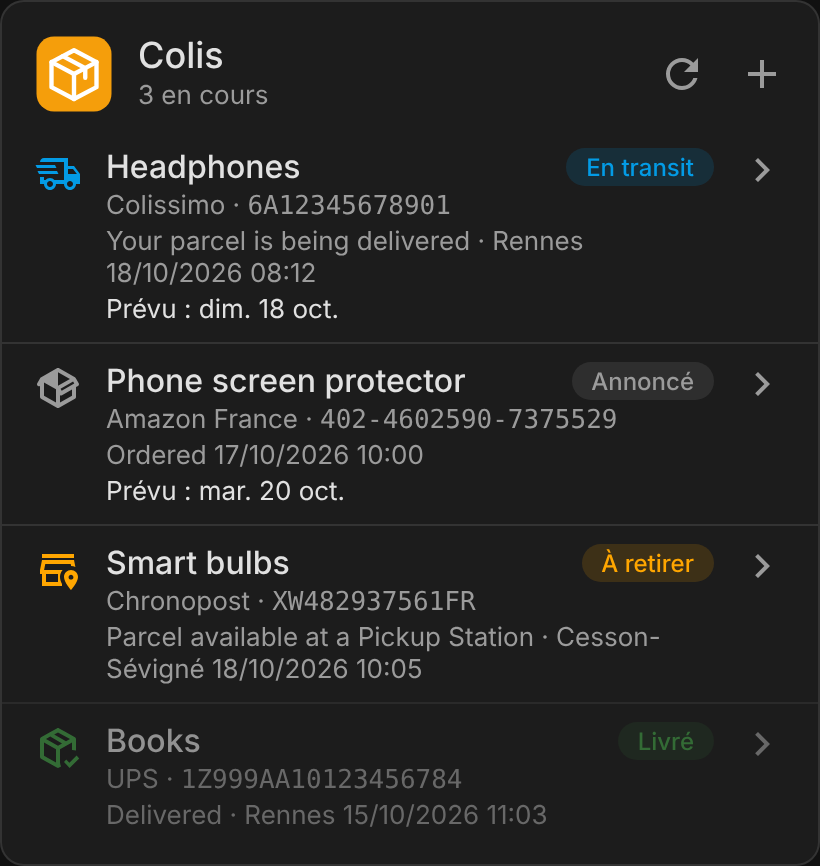
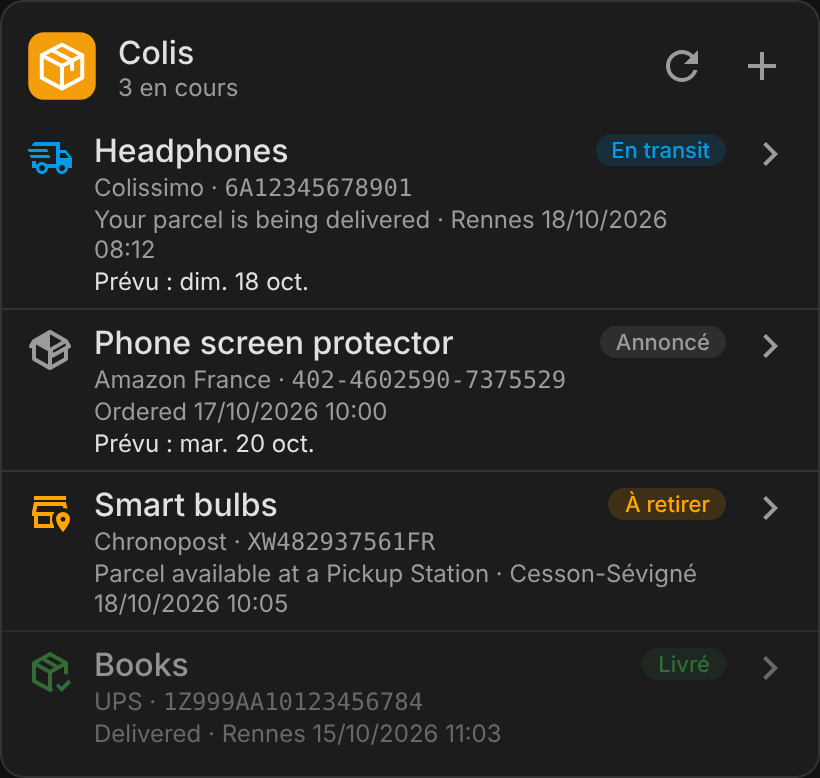
Compact layout with the same information (0.3.0) (#4)
Claude-Session: https://claude.ai/code/session_01FyVHJkuQopwM66ytqwsrgB

diff --git a/custom_components/parcel/frontend/parcel-card.js b/custom_components/parcel/frontend/parcel-card.js
@@ -1,4 +1,4 @@
-var PARCEL_CARD_VERSION = '0.2.4';
+var PARCEL_CARD_VERSION = '0.3.0';
 
 // ── Integration icon (same drawing as brand/icon.png) ────────────────────────
[1 lines of base64/hex data omitted]
@@ -480,35 +480,35 @@ class ParcelCard extends HTMLElement {
     return [
       ':host { display: block; }',
       'ha-card { padding: 0 0 8px; overflow: hidden; }',
-      '.header { display: flex; align-items: center; justify-content: space-between; gap: 12px; padding: 16px 8px 8px 16px; min-height: 40px; }',
-      '.title { flex: 1; min-width: 0; display: flex; align-items: center; gap: 12px; }',
-      '.logo { width: 40px; height: 40px; flex: none; }',
+      '.header { display: flex; align-items: center; justify-content: space-between; gap: 10px; padding: 12px 8px 6px 12px; min-height: 36px; }',
+      '.title { flex: 1; min-width: 0; display: flex; align-items: center; gap: 10px; }',
+      '.logo { width: 36px; height: 36px; flex: none; }',
       '.titles { min-width: 0; }',
-      '.name { font-size: 18px; font-weight: 500; line-height: 1.25; color: var(--primary-text-color); white-space: nowrap; overflow: hidden; text-overflow: ellipsis; }',
-      '.sub { font-size: 13px; color: var(--secondary-text-color); white-space: nowrap; overflow: hidden; text-overflow: ellipsis; }',
+      '.name { font-size: 16px; font-weight: 500; line-height: 1.25; color: var(--primary-text-color); white-space: nowrap; overflow: hidden; text-overflow: ellipsis; }',
+      '.sub { font-size: 12px; color: var(--secondary-text-color); white-space: nowrap; overflow: hidden; text-overflow: ellipsis; }',
       '.buttons { display: flex; align-items: center; }',
       '.refresh-btn.spinning ha-icon { animation: parcel-spin 1s linear infinite; }',
       '@keyframes parcel-spin { from { transform: rotate(0deg); } to { transform: rotate(360deg); } }',
       '.empty { padding: 12px 16px; color: var(--secondary-text-color); }',
-      '.delivery { padding: 8px 16px; cursor: pointer; border-top: 1px solid var(--divider-color, rgba(0,0,0,.12)); }',
+      '.delivery { padding: 6px 12px; cursor: pointer; border-top: 1px solid var(--divider-color, rgba(0,0,0,.12)); }',
       '.delivery:first-child { border-top: none; }',
       '.delivery.done { opacity: 0.6; }',
-      '.row { display: flex; align-items: flex-start; gap: 12px; }',
+      '.row { display: flex; align-items: flex-start; gap: 10px; }',
       '.status-icon { flex: none; margin-top: 2px; }',
       '.main { flex: 1; min-width: 0; }',
       '.line1 { display: flex; align-items: center; gap: 8px; justify-content: space-between; }',
       '.desc { font-weight: 500; color: var(--primary-text-color); overflow: hidden; text-overflow: ellipsis; white-space: nowrap; }',
-      '.chip { flex: none; font-size: 12px; font-weight: 500; border-radius: 12px; padding: 2px 10px; white-space: nowrap; color: var(--c); background: color-mix(in srgb, var(--c) 15%, transparent); }',
-      '.line2, .line3, .expected { font-size: 13px; color: var(--secondary-text-color); margin-top: 2px; overflow-wrap: anywhere; }',
+      '.chip { flex: none; font-size: 11px; font-weight: 500; border-radius: 12px; padding: 1px 8px; white-space: nowrap; color: var(--c); background: color-mix(in srgb, var(--c) 15%, transparent); }',
+      '.line2, .line3, .expected { font-size: 12px; color: var(--secondary-text-color); margin-top: 1px; overflow-wrap: anywhere; }',
       '.tracking { font-family: var(--code-font-family, monospace); cursor: copy; }',
       '.expected { color: var(--primary-text-color); }',
-      '.date { color: var(--secondary-text-color); font-size: 13px; }',
+      '.date { color: var(--secondary-text-color); font-size: 12px; }',
       '.chevron { flex: none; color: var(--secondary-text-color); transition: transform .2s ease; }',
       '.chevron.closed { transform: rotate(-90deg); }',
-      '.events { list-style: none; margin: 6px 0 0 36px; padding: 0 0 0 12px; border-left: 2px solid var(--divider-color, rgba(0,0,0,.12)); font-size: 13px; color: var(--primary-text-color); }',
+      '.events { list-style: none; margin: 4px 0 0 34px; padding: 0 0 0 12px; border-left: 2px solid var(--divider-color, rgba(0,0,0,.12)); font-size: 12px; color: var(--primary-text-color); }',
       '.events li { margin: 4px 0; }',
       '.additional { color: var(--secondary-text-color); }',
-      '.form { padding: 8px 16px 4px; border-top: 1px solid var(--divider-color, rgba(0,0,0,.12)); display: flex; flex-direction: column; gap: 8px; }',
+      '.form { padding: 6px 12px 4px; border-top: 1px solid var(--divider-color, rgba(0,0,0,.12)); display: flex; flex-direction: column; gap: 6px; }',
       '.form[hidden] { display: none; }',
       '.form label { display: flex; flex-direction: column; gap: 4px; font-size: 13px; color: var(--secondary-text-color); }',
       '.form label.check { flex-direction: row; align-items: center; gap: 8px; }',

diff --git a/custom_components/parcel/const.py b/custom_components/parcel/const.py
@@ -6,7 +6,7 @@ from datetime import timedelta
 from typing import Final
 
 DOMAIN: Final = "parcel"
-VERSION: Final = "0.2.4"
+VERSION: Final = "0.3.0"
 
 API_BASE: Final = "https://api.parcel.app/external"
 API_DELIVERIES: Final = f"{API_BASE}/deliveries/"

diff --git a/CHANGELOG.md b/CHANGELOG.md
@@ -1,5 +1,11 @@
 # Changelog
 
+## 0.3.0
+
+### Changes
+- More compact layout with the same information, like the other ha-* cards: 12 px card padding, 36 px header icon, 16 px name and 12 px subtitle, 11 px pills, tighter tiles and sections.
+- 36 px logo, deliveries 8 → 6 px, 12 px carrier, last event, expected date and history.
+
 ## 0.2.4
 
 ### Changes
